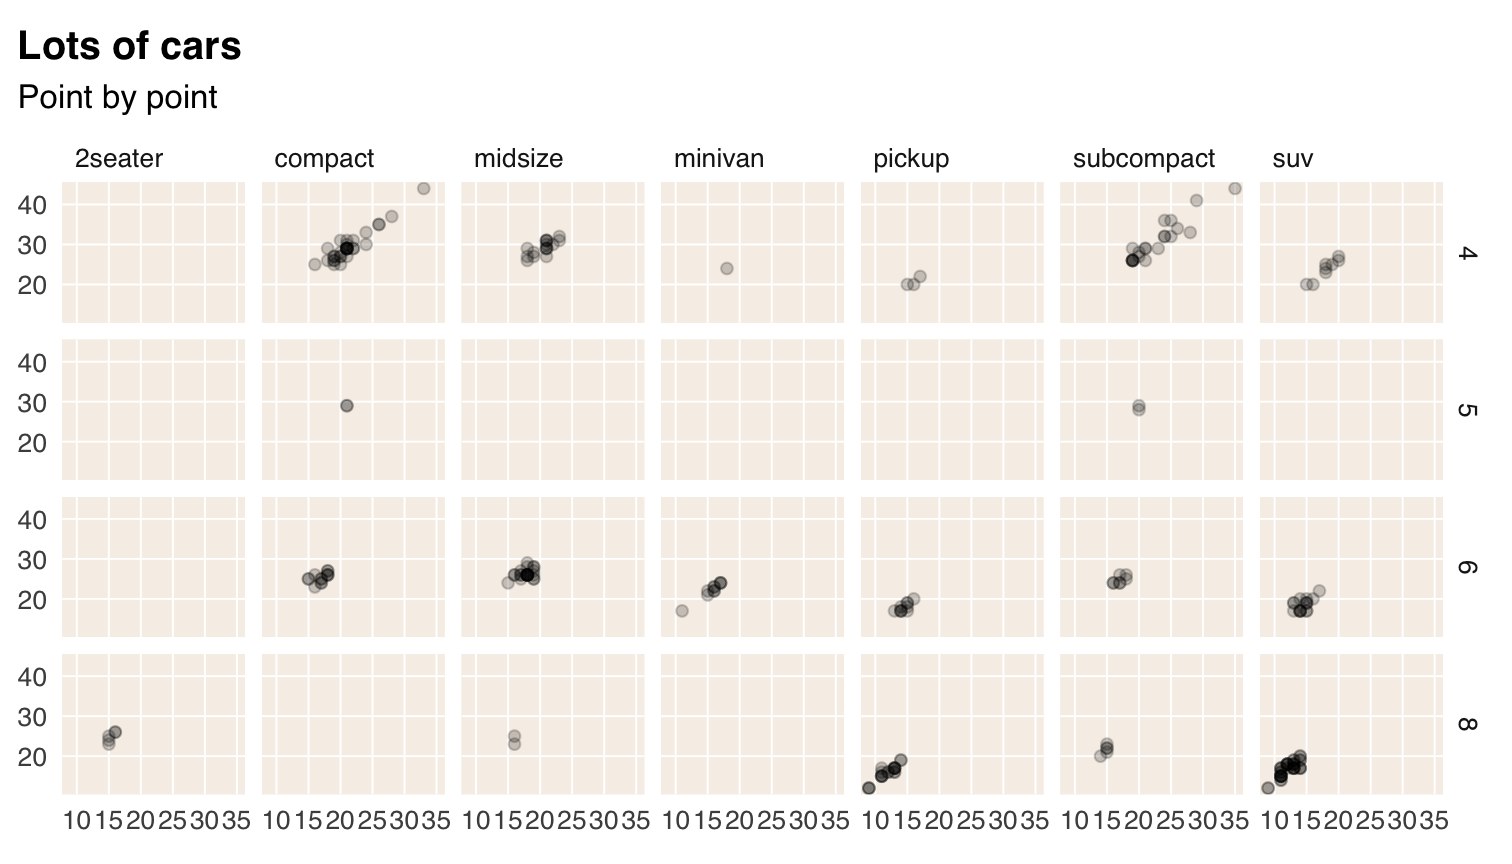
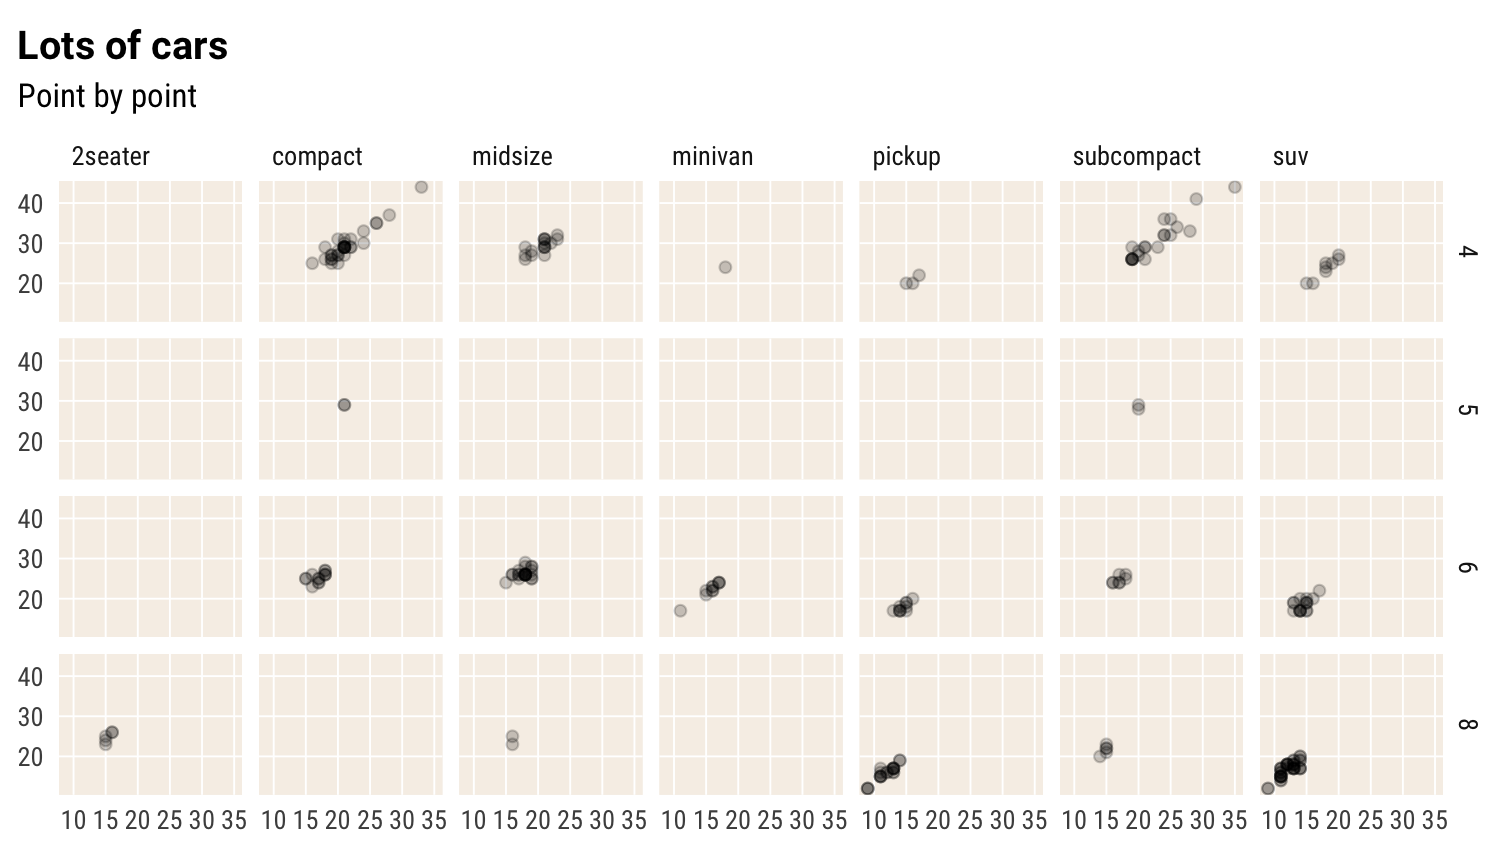
add note on font setup to charts vignette + update chart code to stay the same, closes #36

diff --git a/NEWS.md b/NEWS.md
@@ -3,6 +3,7 @@
 * added the right logos into RStudio template*
 * improved RMarkdown template content
 * font defaults in `theme_schola()` + functions for font import and setting `geom_*` defaults
+* font setup steps documented in vignettes and `theme_schola()` doc
 
 # reschola 0.2.1
 
